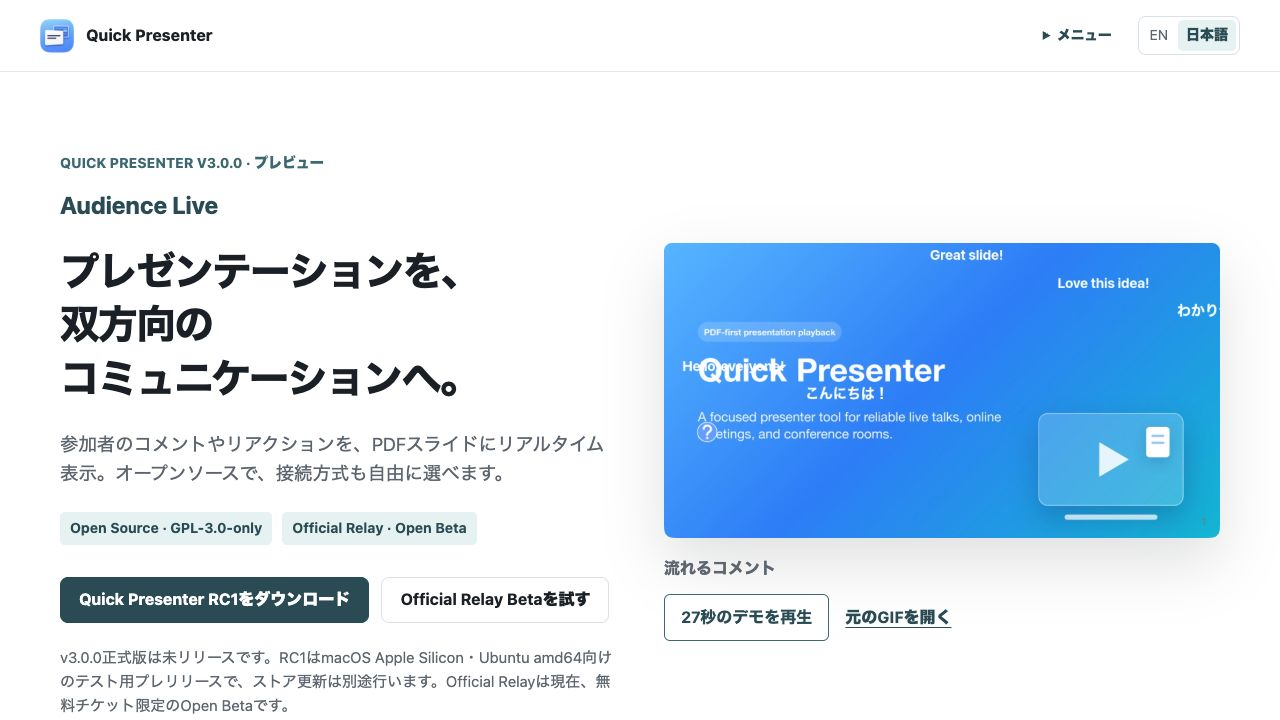
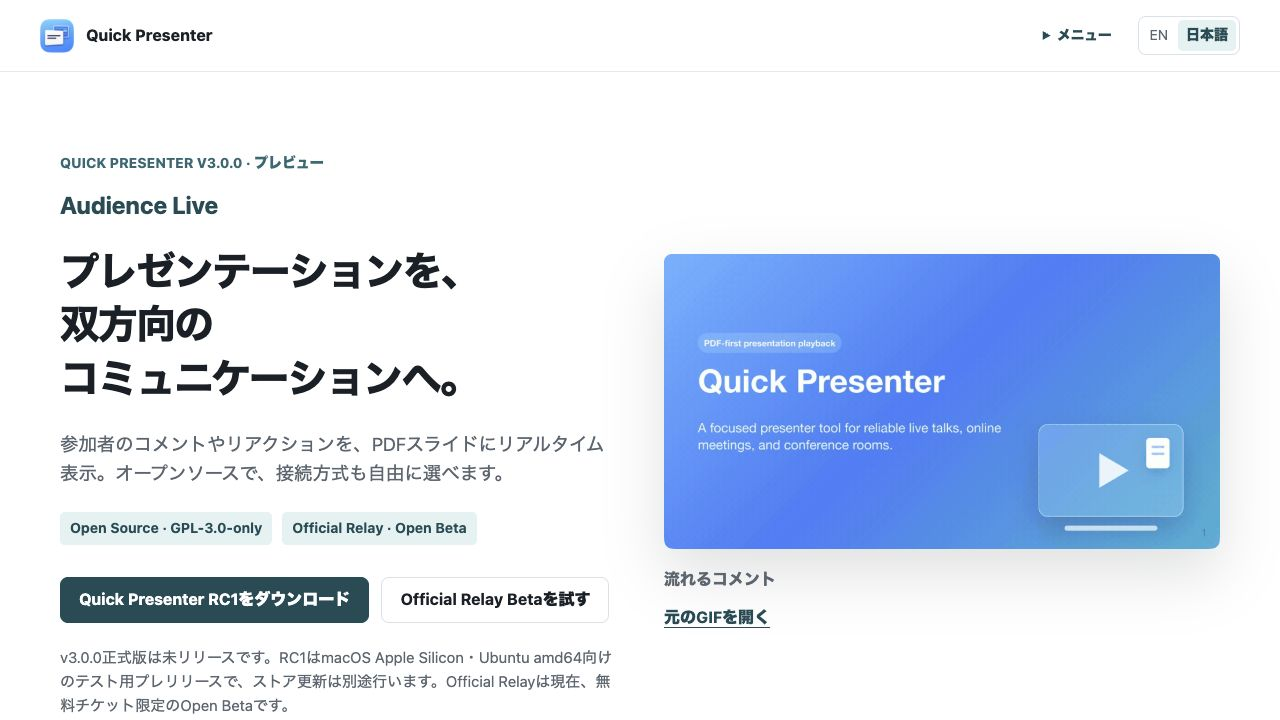
fix(web): autoplay and loop Audience Live demos

Changed region(s): [[0.5, 0.3361, 0.9688, 0.8861]]

diff --git a/website/src/ja/audience-live/index.html b/website/src/ja/audience-live/index.html
@@ -43,9 +43,9 @@
           <div class="hero-actions"><a class="button primary" href="https://github.com/koichiro/quick-presenter/releases/tag/v3.0.0-rc.1">Quick Presenter RC1をダウンロード</a><a class="button secondary" href="https://shop.quickpresenter.com/">Official Relay Betaを試す</a></div>
           <p class="live-status">v3.0.0正式版は未リリースです。RC1はmacOS Apple Silicon・Ubuntu amd64向けのテスト用プレリリースで、ストア更新は別途行います。Official Relayは現在、無料チケット限定のOpen Betaです。</p>
         </div>
-        <figure class="live-demo live-hero-media" data-demo data-play="27秒のデモを再生" data-stop="アニメーションを停止">
-            <img src="/assets/audience-live/flowing.jpg" data-animation="/assets/audience-live/flowing.gif" width="960" height="510" alt="実際のAudience WindowでPDFスライドに重なる英語・日本語の架空のコメントとリアクション" fetchpriority="high" decoding="async" />
-            <figcaption><strong>流れるコメント</strong><div class="live-demo-actions"><button type="button" hidden data-playback aria-pressed="false">27秒のデモを再生</button><a class="text-link" href="/assets/audience-live/flowing.gif">元のGIFを開く</a></div></figcaption>
+        <figure class="live-demo live-hero-media" data-demo>
+            <picture><source media="(prefers-reduced-motion: reduce)" srcset="/assets/audience-live/flowing.jpg" /><img src="/assets/audience-live/flowing.gif" data-animation="/assets/audience-live/flowing.gif" data-poster="/assets/audience-live/flowing.jpg" width="960" height="510" alt="実際のAudience WindowでPDFスライドに重なる英語・日本語の架空のコメントとリアクション" fetchpriority="high" decoding="async" /></picture>
+            <figcaption><strong>流れるコメント</strong><div class="live-demo-actions"><a class="text-link" href="/assets/audience-live/flowing.gif">元のGIFを開く</a></div></figcaption>
           </figure>
       </section>
       <section class="live-section live-wrap" id="how-it-works">
@@ -64,17 +64,17 @@
         <p class="live-intro">実際のアプリで、流れるコメントと吹き出しを比較できます。「Settings > Comment display」で、片方または両方を選べます。初期設定は流れる表示がオン、吹き出しがオフです。</p>
         <div class="live-comparison" data-comparison>
           <div class="live-tabs" data-tabs hidden aria-label="コメントの表示スタイル"><button type="button" id="tab-flowing" data-tab="panel-flowing">流れるコメント</button><button type="button" id="tab-bubbles" data-tab="panel-bubbles">吹き出しコメント</button></div>
-          <div id="panel-flowing" data-panel><figure class="live-demo" data-demo data-play="27秒のデモを再生" data-stop="アニメーションを停止">
-            <img src="/assets/audience-live/flowing.jpg" data-animation="/assets/audience-live/flowing.gif" width="960" height="510" alt="実際のAudience WindowでPDFスライドに重なる英語・日本語の架空のコメントとリアクション" loading="lazy" decoding="async" />
-            <figcaption><strong>流れるコメント</strong><div class="live-demo-actions"><button type="button" hidden data-playback aria-pressed="false">27秒のデモを再生</button><a class="text-link" href="/assets/audience-live/flowing.gif">元のGIFを開く</a></div></figcaption>
+          <div id="panel-flowing" data-panel><figure class="live-demo" data-demo>
+            <picture><source media="(prefers-reduced-motion: reduce)" srcset="/assets/audience-live/flowing.jpg" /><img src="/assets/audience-live/flowing.gif" data-animation="/assets/audience-live/flowing.gif" data-poster="/assets/audience-live/flowing.jpg" width="960" height="510" alt="実際のAudience WindowでPDFスライドに重なる英語・日本語の架空のコメントとリアクション" loading="lazy" decoding="async" /></picture>
+            <figcaption><strong>流れるコメント</strong><div class="live-demo-actions"><a class="text-link" href="/assets/audience-live/flowing.gif">元のGIFを開く</a></div></figcaption>
           </figure><p>メッセージが間隔を空けてスライドを横切ります。</p></div>
-          <div id="panel-bubbles" data-panel><figure class="live-demo" data-demo data-play="27秒のデモを再生" data-stop="アニメーションを停止">
-            <img src="/assets/audience-live/bubbles.jpg" data-animation="/assets/audience-live/bubbles.gif" width="960" height="510" alt="実際のAudience WindowでPDFスライドに重なる英語・日本語の架空のコメントとリアクション" loading="lazy" decoding="async" />
-            <figcaption><strong>吹き出しコメント</strong><div class="live-demo-actions"><button type="button" hidden data-playback aria-pressed="false">27秒のデモを再生</button><a class="text-link" href="/assets/audience-live/bubbles.gif">元のGIFを開く</a></div></figcaption>
+          <div id="panel-bubbles" data-panel><figure class="live-demo" data-demo>
+            <picture><source media="(prefers-reduced-motion: reduce)" srcset="/assets/audience-live/bubbles.jpg" /><img src="/assets/audience-live/bubbles.gif" data-animation="/assets/audience-live/bubbles.gif" data-poster="/assets/audience-live/bubbles.jpg" width="960" height="510" alt="実際のAudience WindowでPDFスライドに重なる英語・日本語の架空のコメントとリアクション" loading="lazy" decoding="async" /></picture>
+            <figcaption><strong>吹き出しコメント</strong><div class="live-demo-actions"><a class="text-link" href="/assets/audience-live/bubbles.gif">元のGIFを開く</a></div></figcaption>
           </figure><p>半透明のカードが右下から積み重なり、最大5件のコメントを表示します。</p></div>
         </div>
         <div class="live-reactions"><h3>5種類のリアクション</h3><p><span aria-hidden="true">👍 ❤ 👏 😄 ❓</span></p><p>いいね、ハート、拍手、笑い、質問のリアクションがスライド上で動きます。どちらの録画でも、コメントと一緒に実際のリアクションを確認できます。</p></div>
-        <p class="live-note">PR #561のmacOS版v3.0.0 RC1実機録画を再利用しています。コメントは英語・日本語の架空の内容です。各27秒で、流れる表示は4.54 MB、吹き出しは1.05 MBです。GIFは再生を選んだときだけ読み込み、停止すると静止画に戻ります。「視差効果を減らす」などの設定にかかわらず、自動再生はしません。ローカル動作のデモで、中継サーバーの性能を示すものではありません。</p>
+        <p class="live-note">PR #561のmacOS版v3.0.0 RC1実機録画を再利用しています。コメントは英語・日本語の架空の内容です。各27秒で、流れる表示は4.54 MB、吹き出しは1.05 MBです。デモは自動再生してループします。端末で「視差効果を減らす」などの設定を有効にしている場合は、静止画を表示します。ローカル動作のデモで、中継サーバーの性能を示すものではありません。</p>
         <p class="live-note">Pauseでコメント表示を消しても受信と発表者の履歴は続きます。Resumeでは新着から表示し、停止中のコメントは再表示しません。ブラックアウトはスライドと重ねた表示をまとめて隠します。受信したコメントは停止中もローカルログに保存されます。PDFファイルやノートは参加者に送信しません。 <a class="text-link" href="https://github.com/koichiro/quick-presenter/blob/main/docs/PRIVACY.md">プライバシーと保存期間</a></p>
       </section>
       <section class="live-section live-wrap" id="connect">

diff --git a/website/src/audience-live/index.html b/website/src/audience-live/index.html
@@ -43,9 +43,9 @@
           <div class="hero-actions"><a class="button primary" href="https://github.com/koichiro/quick-presenter/releases/tag/v3.0.0-rc.1">Download Quick Presenter RC1</a><a class="button secondary" href="https://shop.quickpresenter.com/">Try Official Relay Beta</a></div>
           <p class="live-status">v3.0.0 is not yet final. RC1 is a testing prerelease for macOS Apple Silicon and Ubuntu amd64; Store updates follow separately. Official Relay Open Beta currently offers free tickets only.</p>
         </div>
-        <figure class="live-demo live-hero-media" data-demo data-play="Play 27-second demo" data-stop="Stop animation">
-            <img src="/assets/audience-live/flowing.jpg" data-animation="/assets/audience-live/flowing.gif" width="960" height="510" alt="Real Quick Presenter Audience Window showing synthetic English and Japanese comments and reactions over a PDF slide" fetchpriority="high" decoding="async" />
-            <figcaption><strong>Flowing comments</strong><div class="live-demo-actions"><button type="button" hidden data-playback aria-pressed="false">Play 27-second demo</button><a class="text-link" href="/assets/audience-live/flowing.gif">Open original GIF</a></div></figcaption>
+        <figure class="live-demo live-hero-media" data-demo>
+            <picture><source media="(prefers-reduced-motion: reduce)" srcset="/assets/audience-live/flowing.jpg" /><img src="/assets/audience-live/flowing.gif" data-animation="/assets/audience-live/flowing.gif" data-poster="/assets/audience-live/flowing.jpg" width="960" height="510" alt="Real Quick Presenter Audience Window showing synthetic English and Japanese comments and reactions over a PDF slide" fetchpriority="high" decoding="async" /></picture>
+            <figcaption><strong>Flowing comments</strong><div class="live-demo-actions"><a class="text-link" href="/assets/audience-live/flowing.gif">Open original GIF</a></div></figcaption>
           </figure>
       </section>
       <section class="live-section live-wrap" id="how-it-works">
@@ -64,17 +64,17 @@
         <p class="live-intro">Compare flowing comments and bubbles from the real app. Choose either style or both in Settings > Comment display. Flowing is on by default; bubbles are off.</p>
         <div class="live-comparison" data-comparison>
           <div class="live-tabs" data-tabs hidden aria-label="Comment display style"><button type="button" id="tab-flowing" data-tab="panel-flowing">Flowing comments</button><button type="button" id="tab-bubbles" data-tab="panel-bubbles">Bubble comments</button></div>
-          <div id="panel-flowing" data-panel><figure class="live-demo" data-demo data-play="Play 27-second demo" data-stop="Stop animation">
-            <img src="/assets/audience-live/flowing.jpg" data-animation="/assets/audience-live/flowing.gif" width="960" height="510" alt="Real Quick Presenter Audience Window showing synthetic English and Japanese comments and reactions over a PDF slide" loading="lazy" decoding="async" />
-            <figcaption><strong>Flowing comments</strong><div class="live-demo-actions"><button type="button" hidden data-playback aria-pressed="false">Play 27-second demo</button><a class="text-link" href="/assets/audience-live/flowing.gif">Open original GIF</a></div></figcaption>
+          <div id="panel-flowing" data-panel><figure class="live-demo" data-demo>
+            <picture><source media="(prefers-reduced-motion: reduce)" srcset="/assets/audience-live/flowing.jpg" /><img src="/assets/audience-live/flowing.gif" data-animation="/assets/audience-live/flowing.gif" data-poster="/assets/audience-live/flowing.jpg" width="960" height="510" alt="Real Quick Presenter Audience Window showing synthetic English and Japanese comments and reactions over a PDF slide" loading="lazy" decoding="async" /></picture>
+            <figcaption><strong>Flowing comments</strong><div class="live-demo-actions"><a class="text-link" href="/assets/audience-live/flowing.gif">Open original GIF</a></div></figcaption>
           </figure><p>Messages move across the slide in spaced lanes.</p></div>
-          <div id="panel-bubbles" data-panel><figure class="live-demo" data-demo data-play="Play 27-second demo" data-stop="Stop animation">
-            <img src="/assets/audience-live/bubbles.jpg" data-animation="/assets/audience-live/bubbles.gif" width="960" height="510" alt="Real Quick Presenter Audience Window showing synthetic English and Japanese comments and reactions over a PDF slide" loading="lazy" decoding="async" />
-            <figcaption><strong>Bubble comments</strong><div class="live-demo-actions"><button type="button" hidden data-playback aria-pressed="false">Play 27-second demo</button><a class="text-link" href="/assets/audience-live/bubbles.gif">Open original GIF</a></div></figcaption>
+          <div id="panel-bubbles" data-panel><figure class="live-demo" data-demo>
+            <picture><source media="(prefers-reduced-motion: reduce)" srcset="/assets/audience-live/bubbles.jpg" /><img src="/assets/audience-live/bubbles.gif" data-animation="/assets/audience-live/bubbles.gif" data-poster="/assets/audience-live/bubbles.jpg" width="960" height="510" alt="Real Quick Presenter Audience Window showing synthetic English and Japanese comments and reactions over a PDF slide" loading="lazy" decoding="async" /></picture>
+            <figcaption><strong>Bubble comments</strong><div class="live-demo-actions"><a class="text-link" href="/assets/audience-live/bubbles.gif">Open original GIF</a></div></figcaption>
           </figure><p>Translucent cards stack from the bottom right, keeping up to five settled bubbles visible.</p></div>
         </div>
         <div class="live-reactions"><h3>Five ways to react</h3><p><span aria-hidden="true">👍 ❤ 👏 😄 ❓</span></p><p>Thumbs-up, heart, applause, laugh, and question reactions animate over the slide. Both recordings show real reactions alongside comments.</p></div>
-        <p class="live-note">Real macOS v3.0.0 RC1 recordings with synthetic English and Japanese comments, reused from PR #561. Each GIF is 27 seconds: flowing 4.54 MB; bubbles 1.05 MB. Animations load only when you choose Play; Stop returns to a still image. Nothing autoplays, including with reduced motion enabled. These local demos are not relay performance benchmarks.</p>
+        <p class="live-note">Real macOS v3.0.0 RC1 recordings with synthetic English and Japanese comments, reused from PR #561. Each GIF is 27 seconds: flowing 4.54 MB; bubbles 1.05 MB. Demos play automatically and loop. If your device requests reduced motion, still images are shown instead. These local demos are not relay performance benchmarks.</p>
         <p class="live-note">Pause clears visible comments while reception and presenter history continue. Resume shows new messages without replaying paused ones. Blackout hides slides and overlays together. Accepted comments are saved in rotating local logs, even while paused. PDF files and speaker notes are not sent to attendees. <a class="text-link" href="https://github.com/koichiro/quick-presenter/blob/main/docs/PRIVACY.md">Privacy and retention</a></p>
       </section>
       <section class="live-section live-wrap" id="connect">

diff --git a/website/src/audience-live.js b/website/src/audience-live.js
@@ -1,53 +1,16 @@
-// Progressive enhancement: posters and original GIF links also work without JS.
+// Native looping GIFs also work without JS; picture sources respect reduced motion.
 (() => {
-  const demos = [...document.querySelectorAll('[data-demo]')];
-  const stops = new Map();
-  for (const demo of demos) {
-    const image = demo.querySelector('img');
-    const button = demo.querySelector('[data-playback]');
-    const poster = image.getAttribute('src');
-    let timer;
-    const stop = () => {
-      clearTimeout(timer);
-      image.onload = null;
-      image.onerror = null;
-      image.src = poster;
-      button.textContent = demo.dataset.play;
-      button.setAttribute('aria-pressed', 'false');
-    };
-    stops.set(demo, stop);
-    button.hidden = false;
-    button.addEventListener('click', () => {
-      if (button.getAttribute('aria-pressed') === 'true') {
-        stop();
-        return;
-      }
-      // Keep only the selected demo moving. Stop remains available during loading.
-      stops.forEach(stopDemo => stopDemo());
-      button.setAttribute('aria-pressed', 'true');
-      button.textContent = demo.dataset.stop;
-      image.onload = () => { timer = setTimeout(stop, 27000); };
-      image.onerror = stop;
-      image.src = image.dataset.animation;
-    });
-  }
-  const stopAll = () => stops.forEach(stop => stop());
-  document.addEventListener('visibilitychange', () => {
-    if (document.hidden) stopAll();
-  });
-  window.addEventListener('pagehide', stopAll);
-  window.matchMedia('(prefers-reduced-motion: reduce)').addEventListener('change', stopAll);
-
   for (const comparison of document.querySelectorAll('[data-comparison]')) {
     const tablist = comparison.querySelector('[data-tabs]');
     const tabs = [...tablist.querySelectorAll('[data-tab]')];
     const panels = [...comparison.querySelectorAll('[data-panel]')];
     const select = (index, focus = false) => {
-      stopAll();
       tabs.forEach((tab, i) => {
         tab.setAttribute('aria-selected', String(i === index));
         tab.tabIndex = i === index ? 0 : -1;
         panels[i].hidden = i !== index;
+        const image = panels[i].querySelector('img');
+        image.src = i === index ? image.dataset.animation : image.dataset.poster;
       });
       if (focus) tabs[index].focus();
     };
